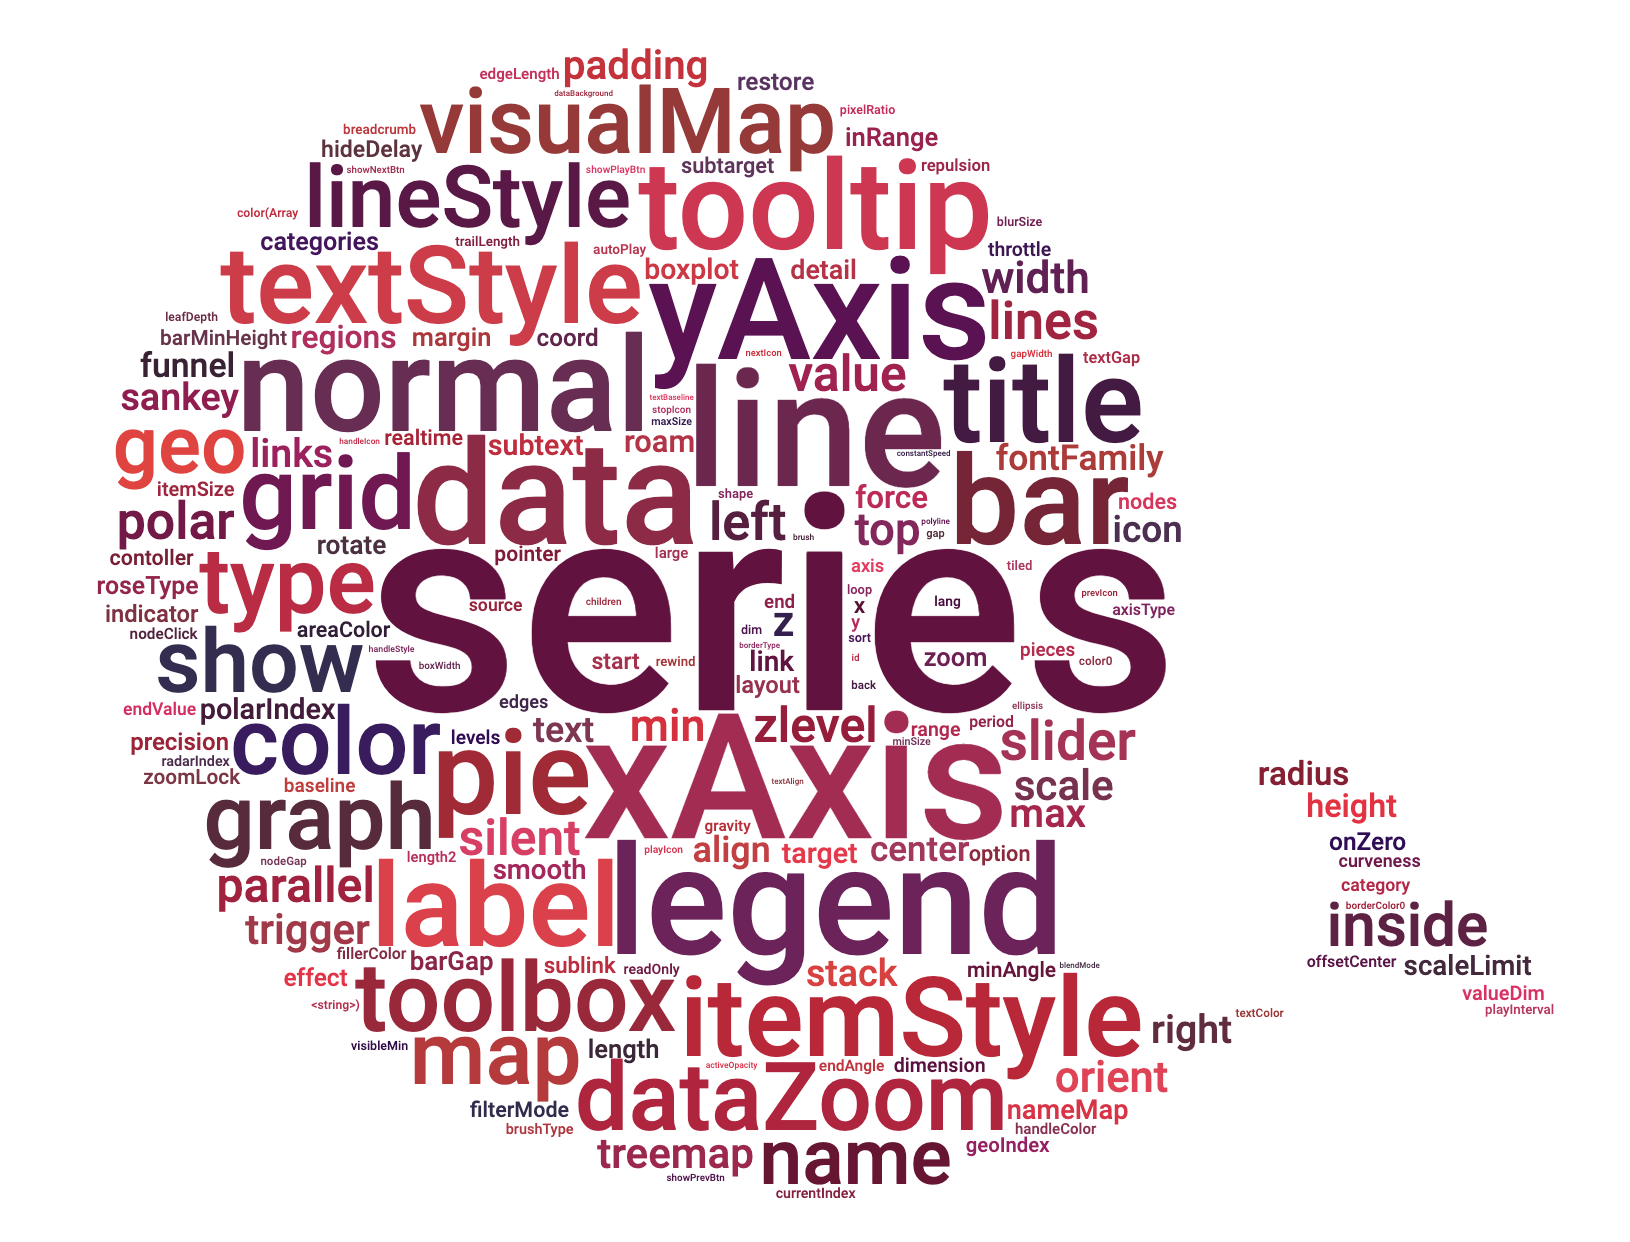
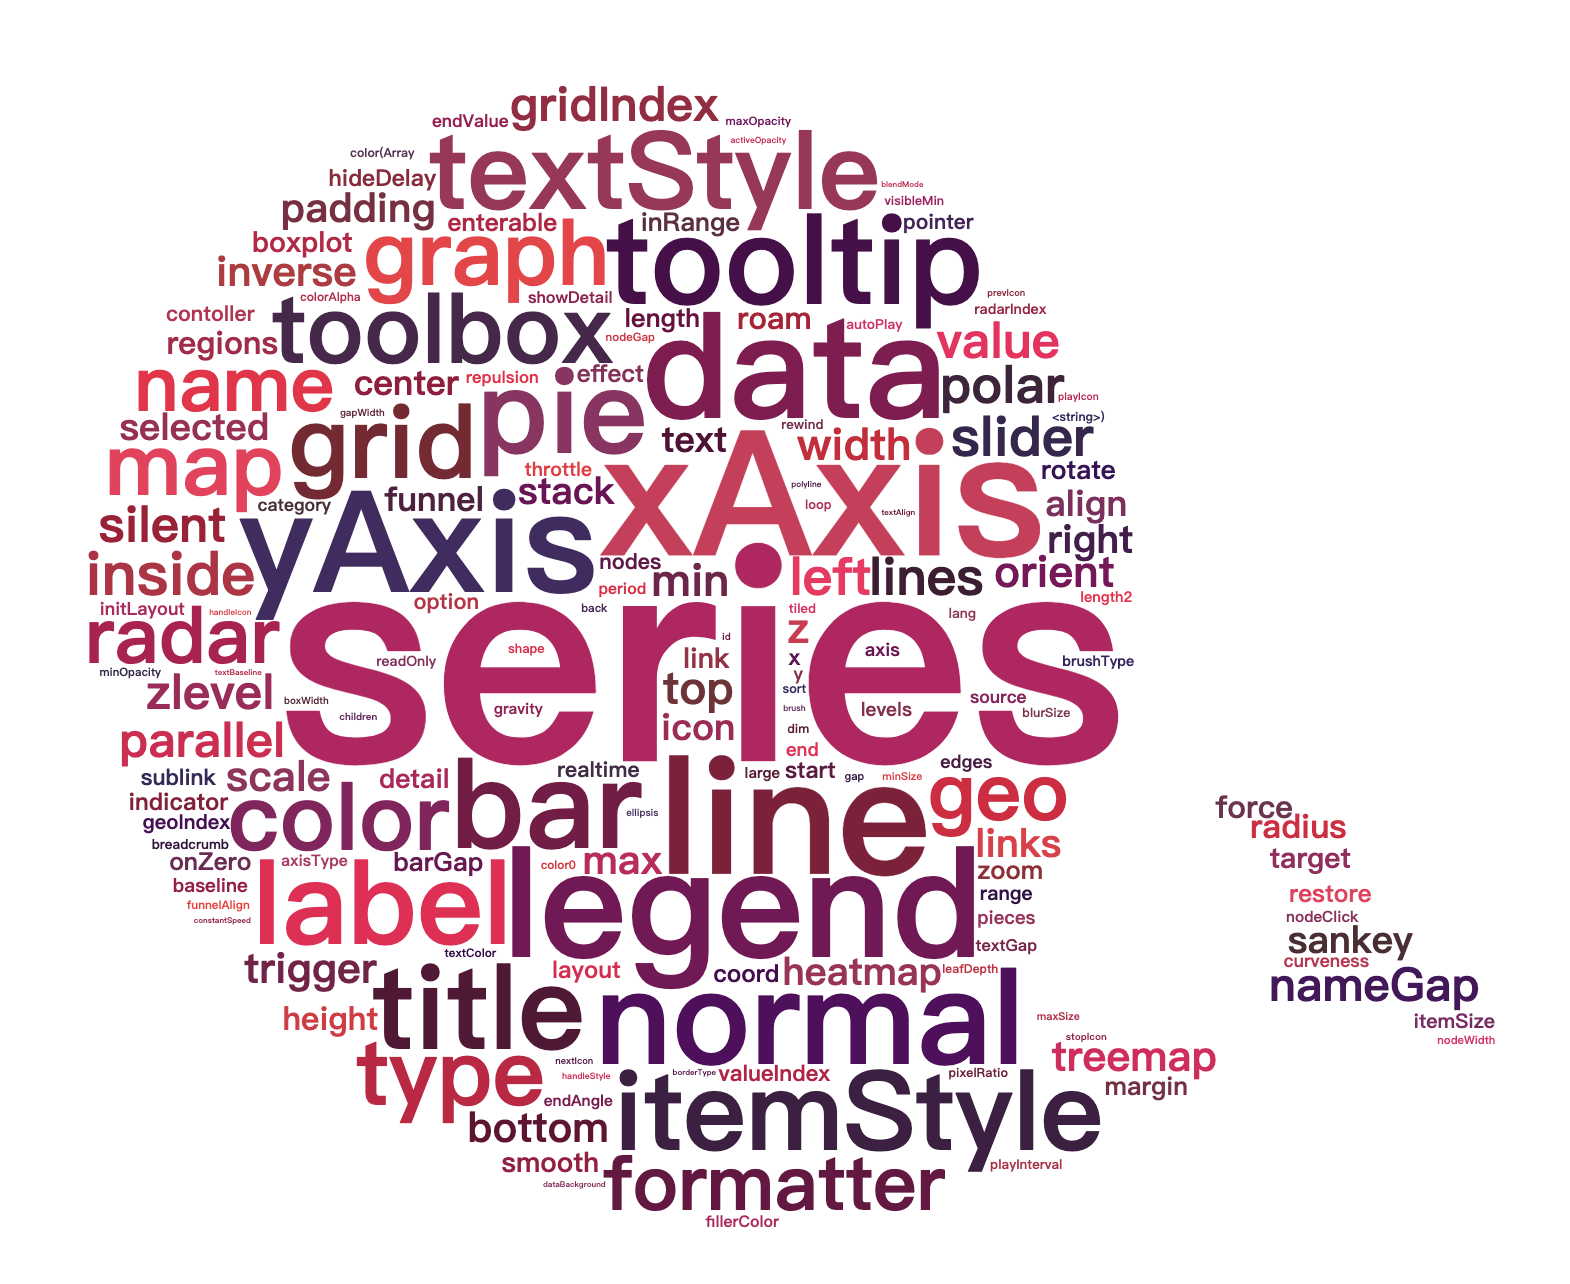
remove font

diff --git a/example/optionKeywords.html b/example/optionKeywords.html
@@ -5,9 +5,6 @@
 
         <!-- <script src="../../echarts/dist/echarts.js"></script> -->
         <script src='../dist/echarts-wordcloud.js'></script>
-        <link rel="preconnect" href="https://fonts.googleapis.com">
-        <link rel="preconnect" href="https://fonts.gstatic.com" crossorigin>
-        <link href="https://fonts.googleapis.com/css2?family=Roboto:wght@500&display=swap" rel="stylesheet">
     </head>
     <body>
         <style>
@@ -381,7 +378,7 @@
                     maskImage: maskImage,
                     drawOutOfBound: false,
                     textStyle: {
-                        fontFamily: 'Roboto',
+                        fontWeight: 'bold',
                         color: function () {
                             return 'rgb(' + [
                                 Math.round(Math.random() * 200) + 50,
@@ -392,7 +389,7 @@
                     },
                     emphasis: {
                         textStyle: {
-                            color: 'red'
+                            color: '#528'
                         }
                     },
                     data: data.sort(function (a, b) {
